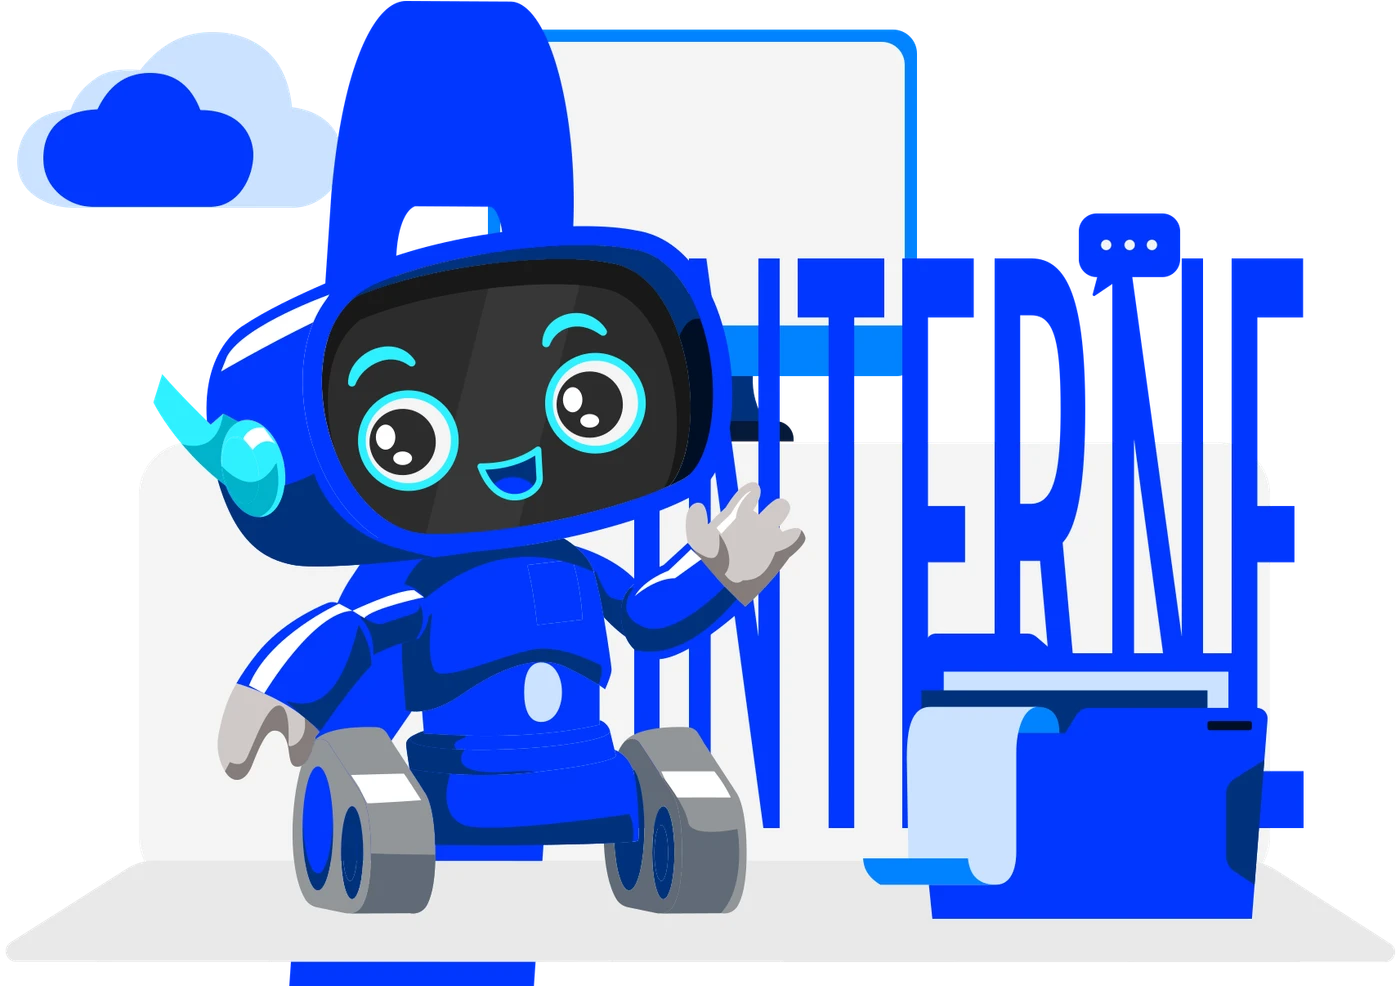
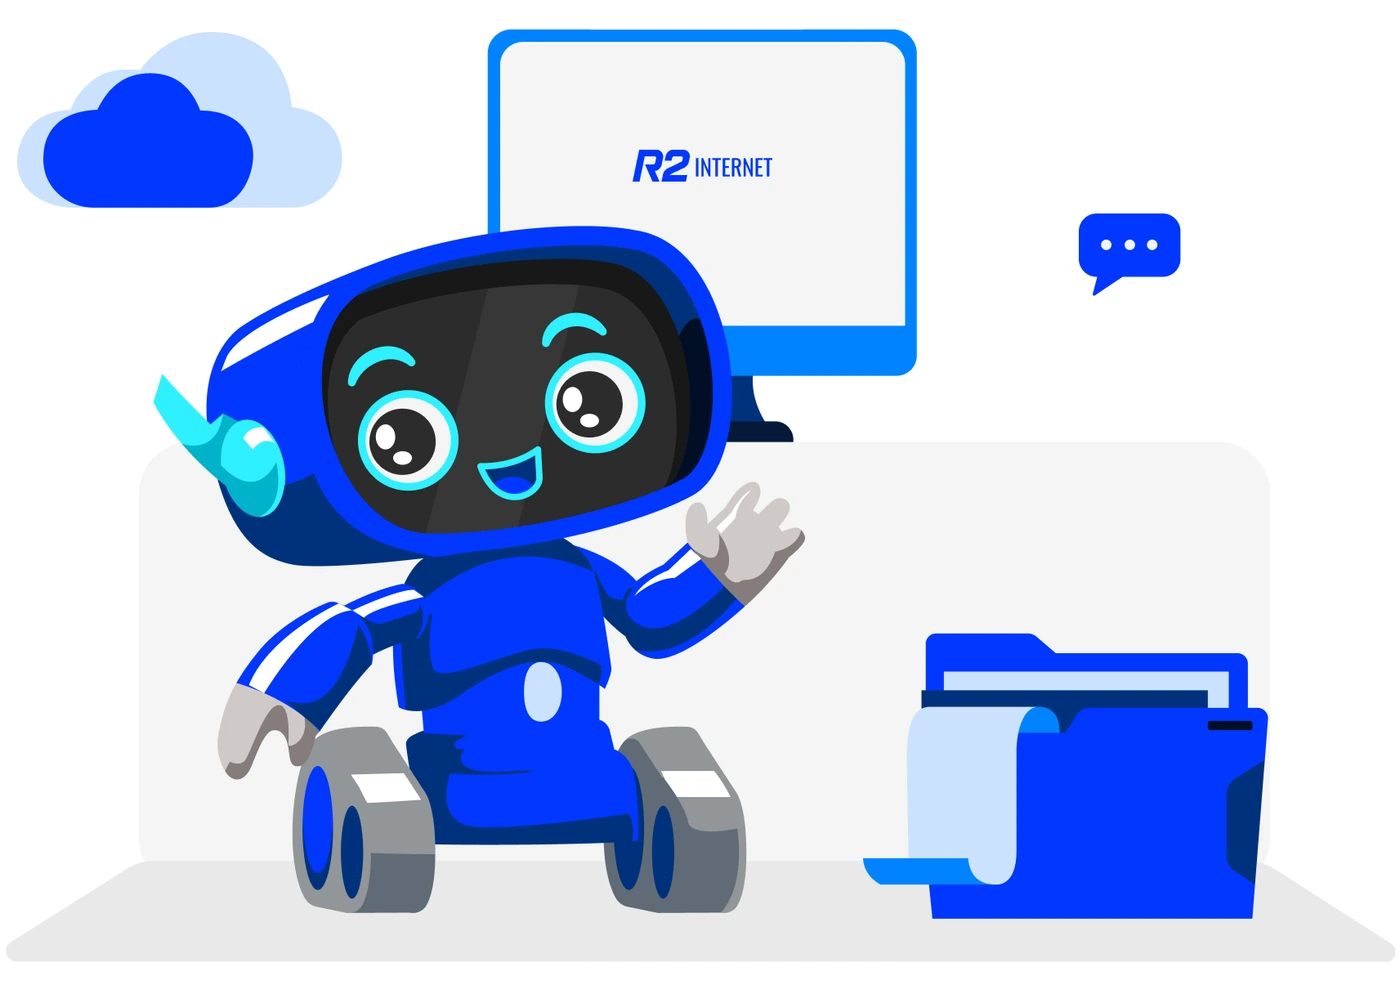
Troca o robo pelo export do Figma e tira o branco das lojas e do circulo
O robo do teaser empresarial era uma montagem minha, camada por camada, a
partir dos vetores soltos do arquivo. Saiu errado: o logotipo "R2 INTERNET"
do monitor foi parar em tamanho gigante atras do robo. Agora e o export do
proprio no do Figma, com o monitor, a nuvem, o balao e a pasta no lugar.

Circulo de aplicativos: o repouso era `opacity: 0` ate o IntersectionObserver
rodar, entao qualquer tropeco no JS deixava a peca principal da Home como um
quadrado em branco. O repouso passa a ser visivel e a entrada escalonada
volta a ser o que sempre deveria ter sido, enfeite.

Lojas: a quantidade de cards visiveis vinha dos `breakpoints` do Swiper, que
so valem depois que o JS assume; antes disso os slides ficam com 100% e
aparece um card gigante sozinho. Agora a largura mora no proprio slide, em
CSS, e a secao ja nasce com tres cards no desktop.

diff --git a/web-next/src/components/sections/lojas.tsx b/web-next/src/components/sections/lojas.tsx
@@ -81,22 +81,22 @@ export function Lojas() {
             }}
             modules={[Autoplay]}
             spaceBetween={20}
-            slidesPerView={1}
+            // `auto` + largura em CSS no slide, em vez de `breakpoints`: a
+            // quantidade de cards visiveis passa a ser uma regra de estilo
+            // que da pra ler no proprio slide, e continua valendo mesmo se o
+            // JS do carrossel demorar a assumir.
+            slidesPerView="auto"
             autoplay={{
               delay: 3500,
               disableOnInteraction: false,
               pauseOnMouseEnter: true,
-            }}
-            breakpoints={{
-              640: { slidesPerView: 2 },
-              1024: { slidesPerView: 3 },
             }}
             className="!px-1 !py-3"
           >
             {LOJAS.map((loja) => (
               <SwiperSlide
                 key={`${loja.nome}-${loja.unidade ?? ""}`}
-                className="h-auto"
+                className="h-auto w-[85%] sm:w-[47%] lg:w-[31.5%]"
               >
                 <StackedCard className="flex flex-col p-2">
                   <div className="relative h-44 w-full overflow-hidden rounded-xl">

diff --git a/web-next/src/app/globals.css b/web-next/src/app/globals.css
@@ -320,10 +320,10 @@ body {
 
 /* Entrada: os logos surgem do centro para fora quando a seção entra no
    viewport (o atraso de cada um vem inline, do componente). */
-.r2-palco[data-entrada="aguardando"] .r2-app,
-.r2-palco[data-entrada="aguardando"] .r2-anel {
-  opacity: 0;
-}
+/* O repouso e VISIVEL de proposito: a entrada escalonada e enfeite, e
+   enfeite nao pode ser a unica coisa que decide se a secao aparece. Quando
+   isso dependia de `opacity: 0` ate o IntersectionObserver rodar, qualquer
+   tropeco no JS deixava a peca principal da Home como um quadrado vazio. */
 
 .r2-palco[data-entrada="visivel"] .r2-app {
   animation: r2-surgir-app 700ms cubic-bezier(0.16, 1, 0.3, 1) backwards;
